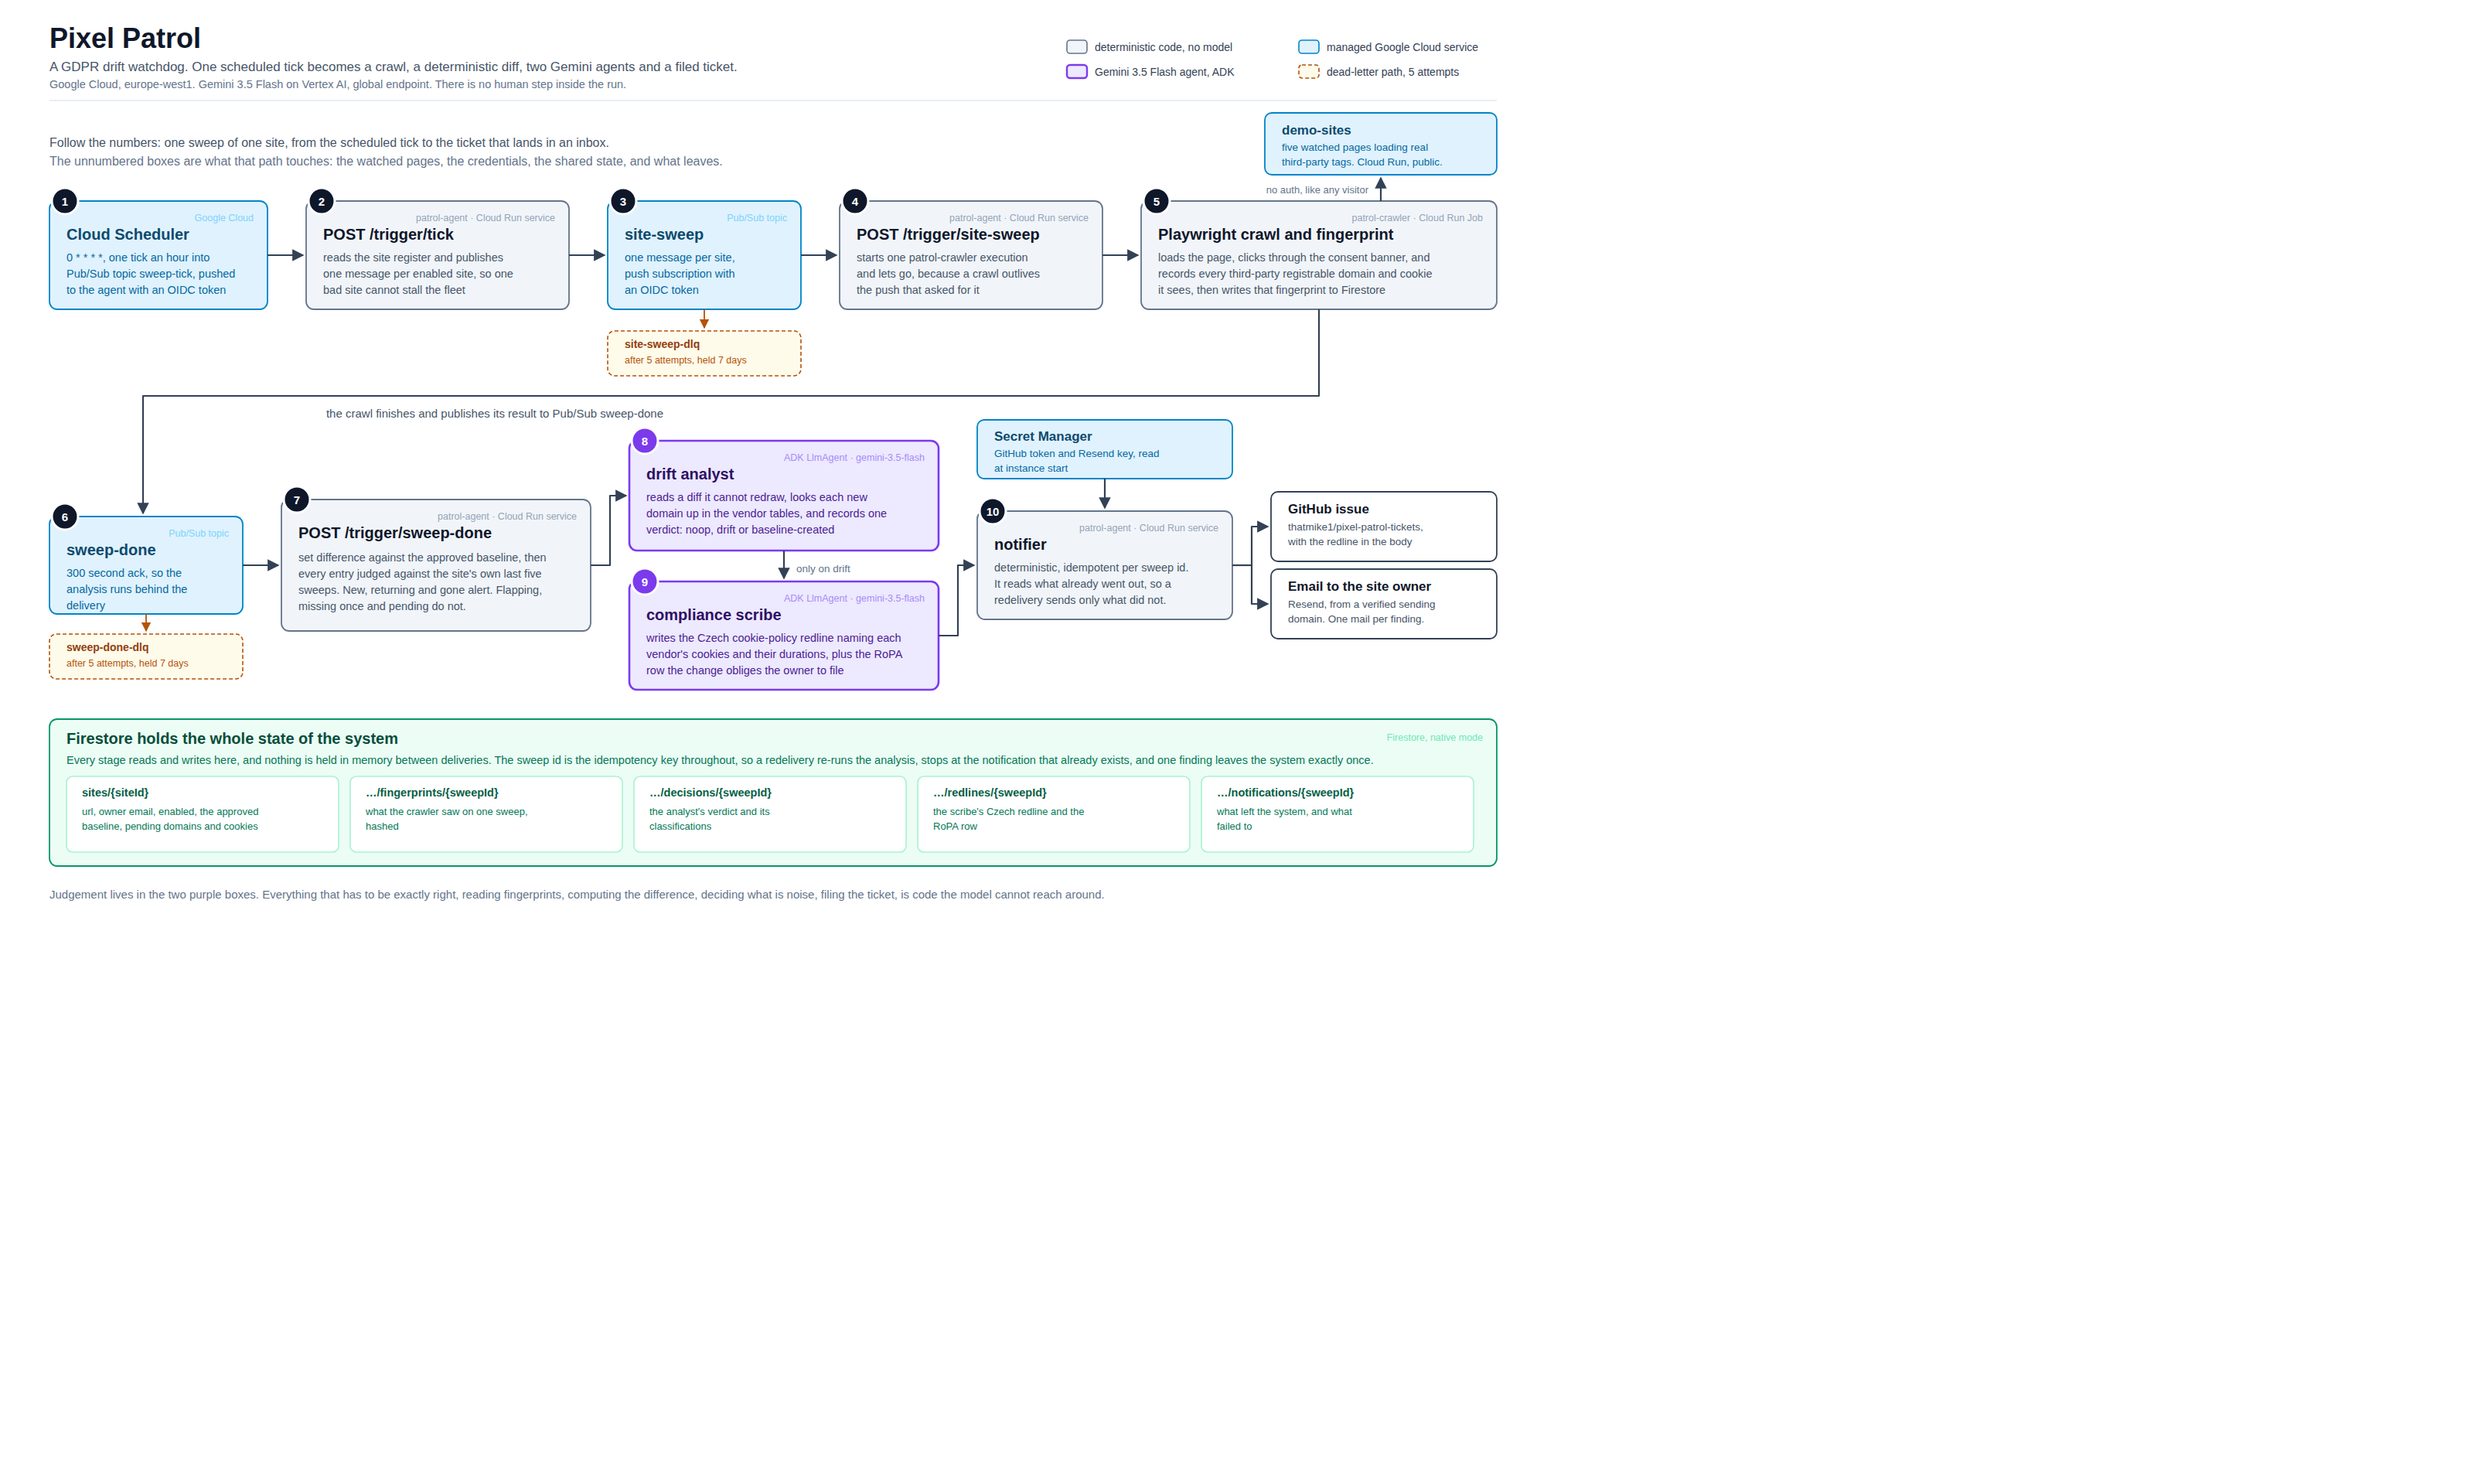
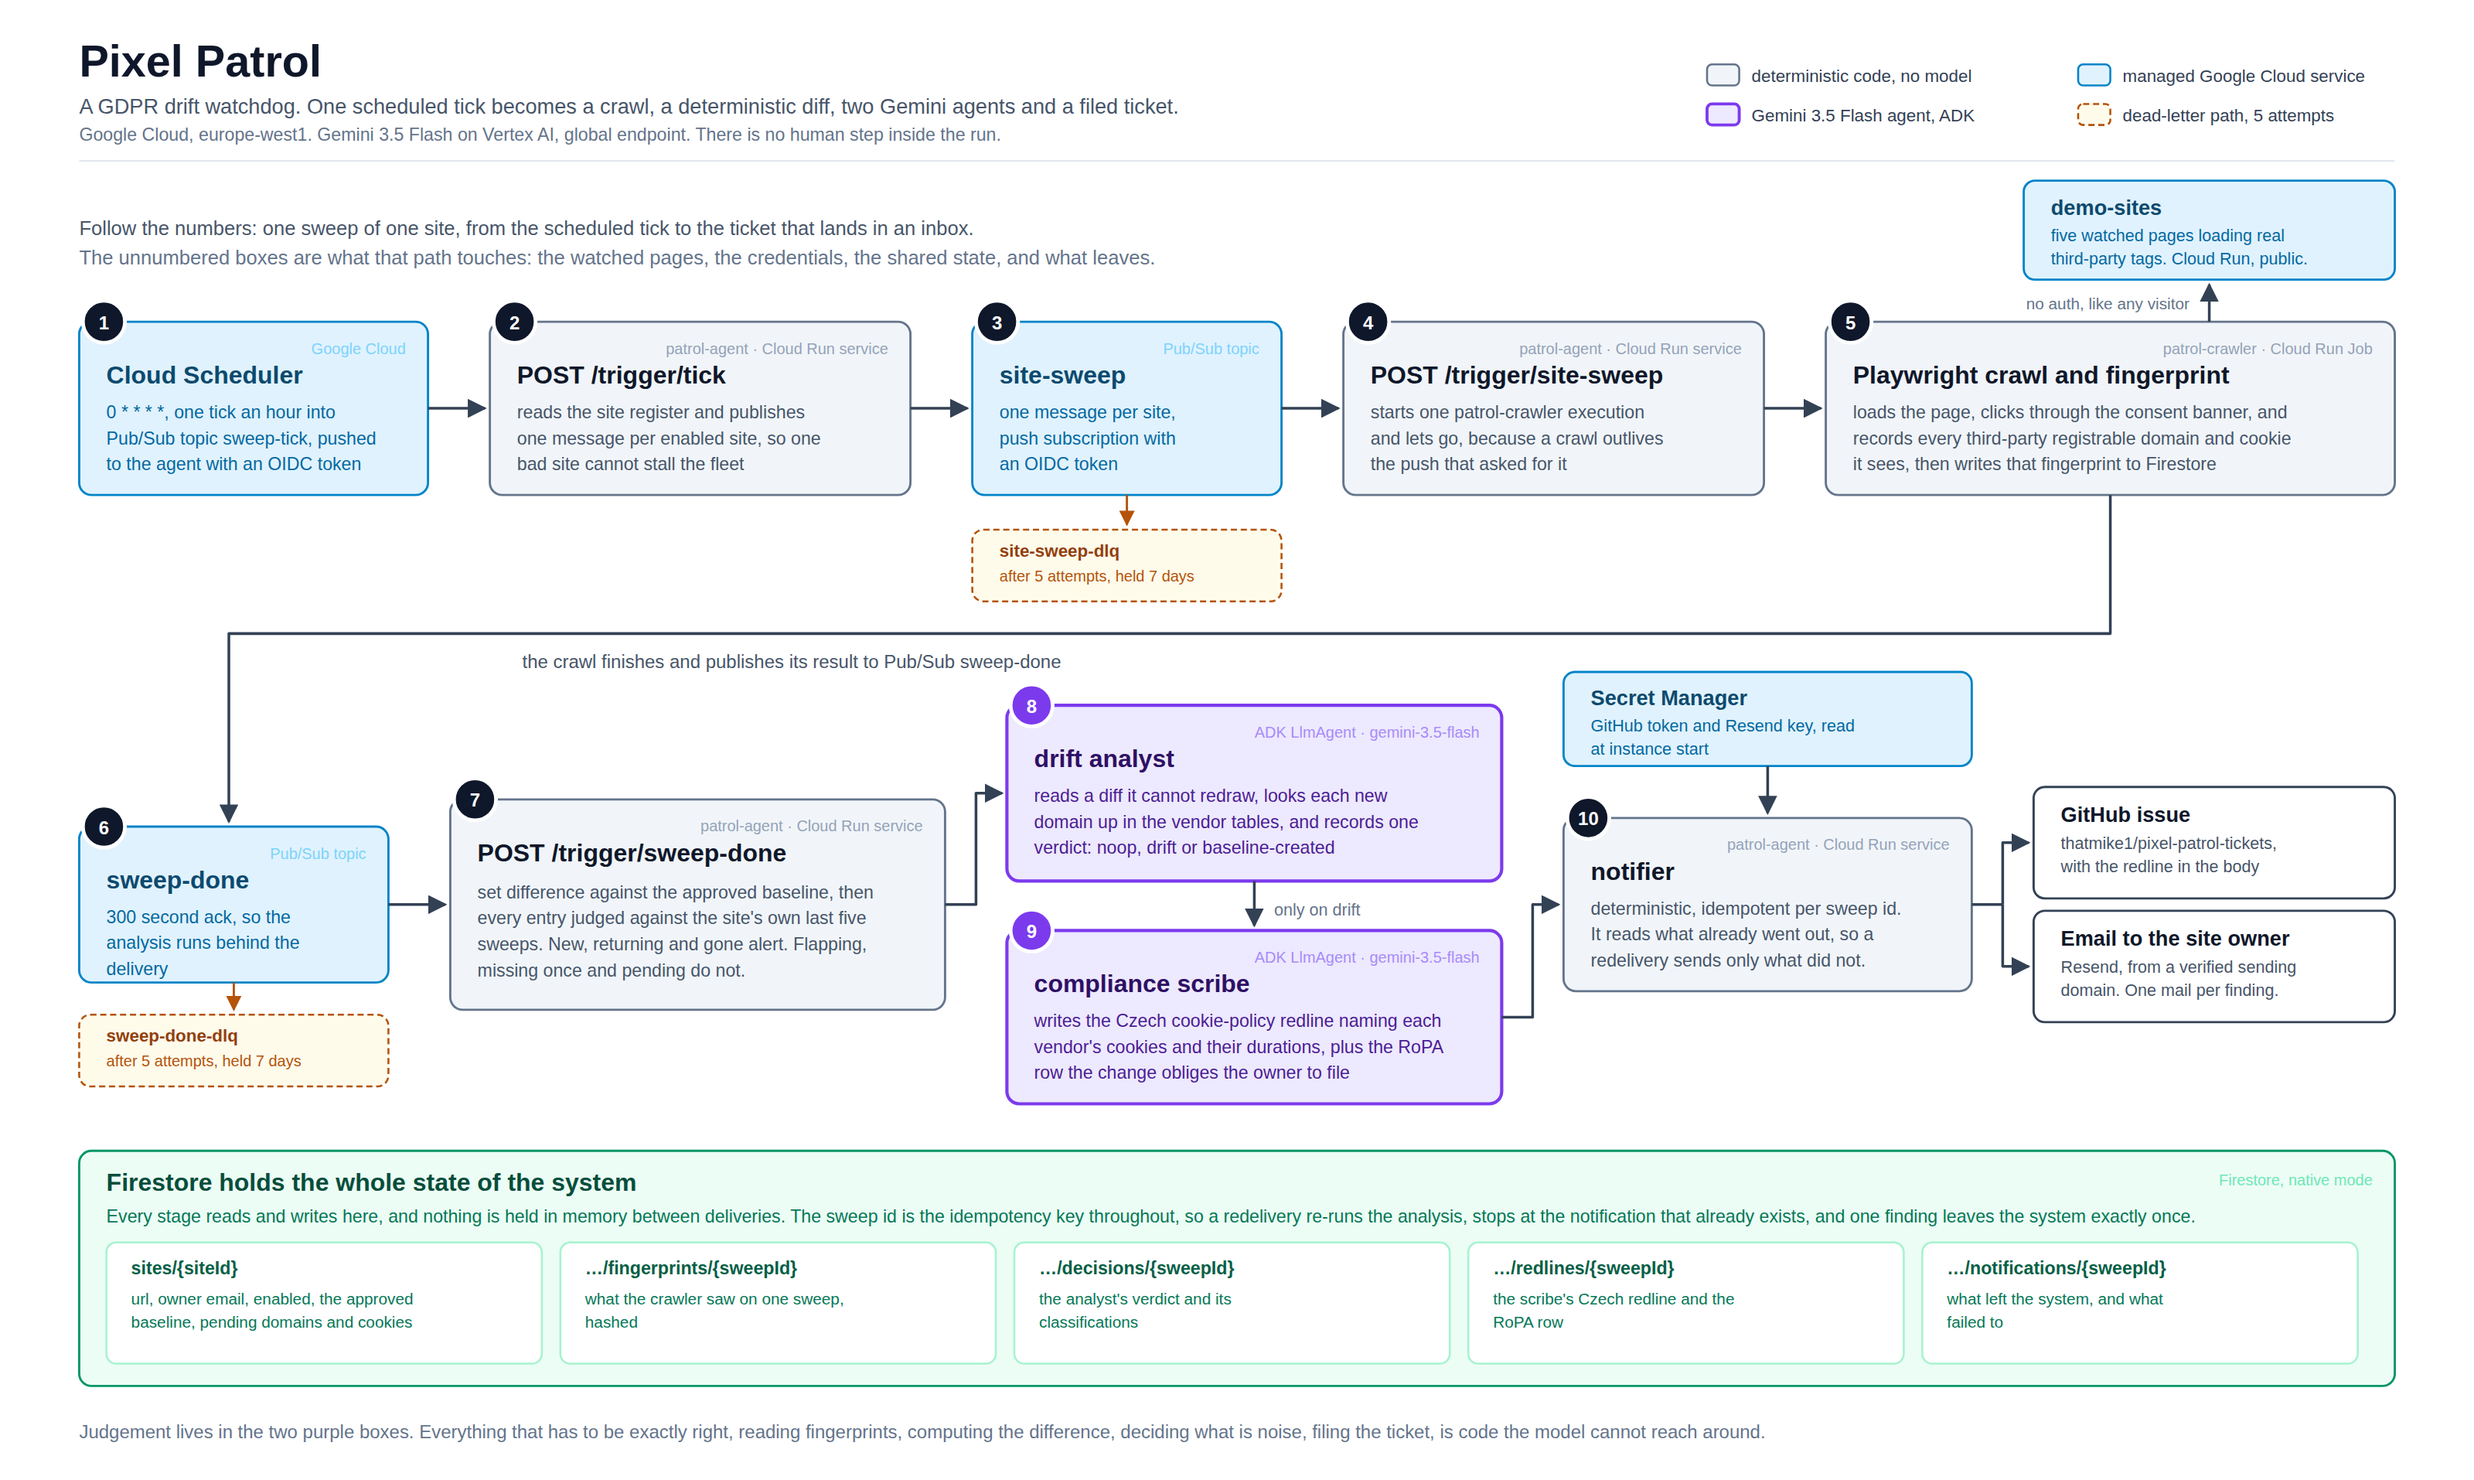
fix: diagram was two thirds whitespace, browser now the left pane

diff --git a/video-rig/cards/arch.html b/video-rig/cards/arch.html
@@ -1,11 +1,15 @@
 <!doctype html><meta charset="utf-8"><title>Architecture</title>
-<style>html,body{margin:0;height:100%;background:#0b1020;color:#e8eef6;font:400 20px/1.5 "DejaVu Sans",sans-serif;
- display:flex;flex-direction:column;align-items:center;justify-content:center;gap:20px}
- img{max-width:94%;max-height:74%;object-fit:contain;background:#fff;border-radius:8px;padding:10px}
- p{margin:0;color:#8fa3bf;text-align:center;max-width:80%}</style>
-<img src="file:///home/thatmike1/git/pixel-patrol/docs/architecture.png" alt="Pixel Patrol architecture">
-<p>Cloud Scheduler fans out one Pub/Sub message per site, and a Cloud Run Job crawls that site with Playwright.
-The diff itself is plain code the model cannot reach around, because an LLM asked to eyeball two host lists
-will eventually miss one, and a missed marketing pixel is the failure this whole thing exists to prevent.
-Two Gemini agents on Vertex do the judgement: is this real drift, and what does the policy now have to say.
-Then the notifier opens the ticket and sends the mail.</p>
+<style>
+ html,body{margin:0;height:100%;background:#0b1020;color:#e8eef6;
+  font:400 17px/1.45 "DejaVu Sans",system-ui,sans-serif;}
+ /* the diagram is landscape and the pane is portrait, so width is the binding limit.
+    fill it, and let the caption take only what is left. */
+ body{display:flex;flex-direction:column;justify-content:center;gap:22px;padding:18px;box-sizing:border-box}
+ figure{margin:0;display:flex;justify-content:center}
+ img{width:100%;height:auto;max-height:78vh;object-fit:contain;background:#fff;border-radius:10px;padding:8px;box-sizing:border-box}
+ p{margin:0 auto;color:#93a6c2;text-align:center;max-width:62ch}
+</style>
+<figure><img src="file:///home/thatmike1/git/pixel-patrol/docs/architecture.png" alt="Pixel Patrol architecture"></figure>
+<p>Cloud Scheduler fans out one Pub/Sub message per site, and a Cloud Run Job crawls that site
+with Playwright. The diff itself is plain code the model cannot reach around. Two Gemini agents
+on Vertex do the judgement: is this real drift, and what does the policy now have to say.</p>
